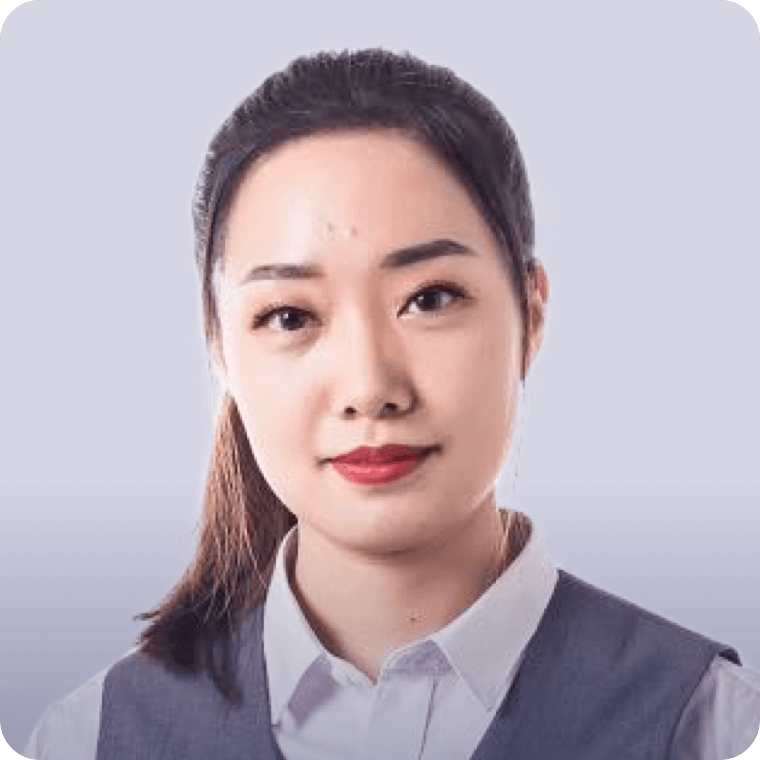
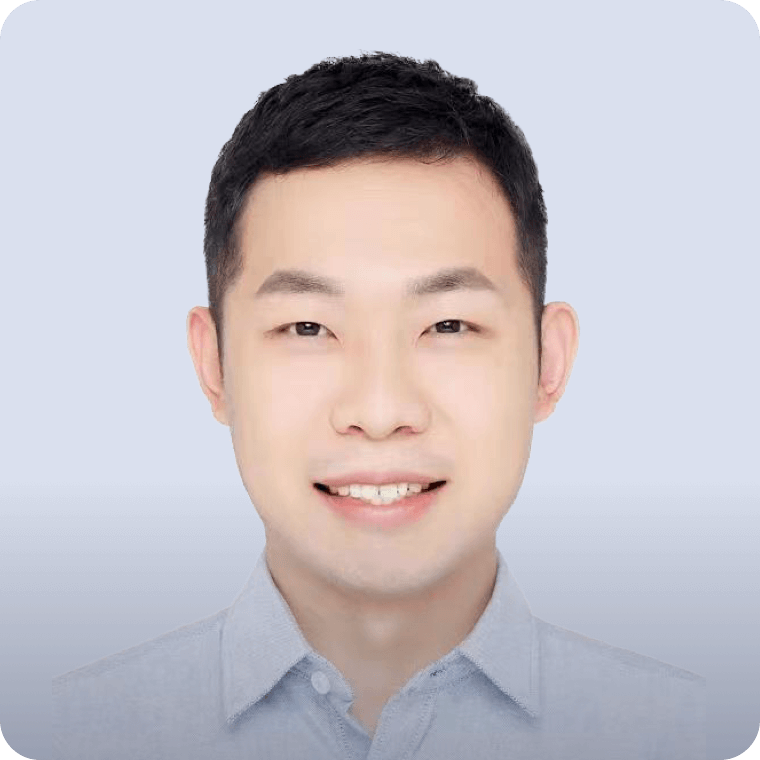
fix(page): 改版

diff --git a/src/store/modules/team.js b/src/store/modules/team.js
@@ -6,70 +6,54 @@ export const useTeamStore = defineStore({
     return {
       teamData: [
         {
+          pic: 'team_1',
           name: 'Ming Lei',
           position: 'Founding Partner',
-          intro: 'Ming Lei intro',
+          intro: '简介',
           mobileIntro: [
             'Mr. Ming Lei is one of Baidu seven Co-Founders. He was in charge of Baidu Search Engine Research and Development, made Baidu the best Chinese search engine in the world.',
-            'Ming founded Kuwo in year 2005. As CEO and Chairman, Ming led Kuwo to be one of top 3 music platforms in China, with more than 200MM active users. After merging with Kugou and QQ Music. (the other 2 of top 3), Kuwo is part of TME Group, which listed in NYSE in 2018.',
-            'Ming is active in AI related research and investment. He is the director of AI Innovation Center in Peking University. At same time, he is the founding partner of AIBasis, which has invested more than ten AI related start-ups, including the New AI Era, No.1 AI media in China; Deep Wise, a top medial imaging AI company in China.',
-            'Ming got MS degree with honor in year 2000 from Peking University, and MBA degree in year 2005 from Stanford Business School. He serves as Director of Stanford Business School Management Board, and Director of Peking University Alumni Association.'
+            'Ming founded Kuwo in year 2005. As CEO and Chairman, Ming led Kuwo to be one of top 3 music platforms in China, which listed in NYSE in 2018.',
+            'Ming is active in AI related research and investment. He is the director of AI Innovation Center in Peking University. At same time, he has invested more than 30 AI related start-ups.',
+            'Ming got MBA degree in year 2005 from Stanford Business School. He serves as Director of Peking University Alumni Association, and Vic President of Stanford Club of Beijing.'
           ]
         },
         {
+          pic: 'team_2',
           name: 'Di Li',
           position: 'Founding Partner',
-          intro: 'Di Li intro',
+          intro: '',
           mobileIntro: [
-            'Mr. Ming Lei is one of Baidu seven Co-Founders. He was in charge of Baidu Search Engine Research and Development, made Baidu the best Chinese search engine in the world.',
-            'Ming founded Kuwo in year 2005. As CEO and Chairman, Ming led Kuwo to be one of top 3 music platforms in China, with more than 200MM active users. After merging with Kugou and QQ Music. (the other 2 of top 3), Kuwo is part of TME Group, which listed in NYSE in 2018.',
-            'Ming is active in AI related research and investment. He is the director of AI Innovation Center in Peking University. At same time, he is the founding partner of AIBasis, which has invested more than ten AI related start-ups, including the New AI Era, No.1 AI media in China; Deep Wise, a top medial imaging AI company in China.',
-            'Ming got MS degree with honor in year 2000 from Peking University, and MBA degree in year 2005 from Stanford Business School. He serves as Director of Stanford Business School Management Board, and Director of Peking University Alumni Association.'
+            'Di is the founding partner of AIbasis, with years of experience in investing in cutting-edge technology. He serves as a special advisor at the Artificial Intelligence Innovation Centre（AIIC） of the Peking University  and teaches courses on Demand Analysis, Product Design, and Mental Models. ',
+            'In 2003, Di earned a Bachelor degree from Peking University, and he has since been a seasoned serial entrepreneur in the internet and mobile industries, with nearly 20 years of experience in product design. He was the lead product manager of Kuwo Music, one of the leading music streaming service in China with 200 million monthly active users, and one that merged with Tencent Music Group which got listed on NASDAQ in 2018.',
           ]
         },
         {
-          name: 'Jena Zhang',
-          position: 'Investment Director',
-          intro: 'Jena Zhang intro',
-          mobileIntro: [
-            'Mr. Ming Lei is one of Baidu seven Co-Founders. He was in charge of Baidu Search Engine Research and Development, made Baidu the best Chinese search engine in the world.',
-            'Ming founded Kuwo in year 2005. As CEO and Chairman, Ming led Kuwo to be one of top 3 music platforms in China, with more than 200MM active users. After merging with Kugou and QQ Music. (the other 2 of top 3), Kuwo is part of TME Group, which listed in NYSE in 2018.',
-            'Ming is active in AI related research and investment. He is the director of AI Innovation Center in Peking University. At same time, he is the founding partner of AIBasis, which has invested more than ten AI related start-ups, including the New AI Era, No.1 AI media in China; Deep Wise, a top medial imaging AI company in China.',
-            'Ming got MS degree with honor in year 2000 from Peking University, and MBA degree in year 2005 from Stanford Business School. He serves as Director of Stanford Business School Management Board, and Director of Peking University Alumni Association.'
-          ]
-        },
-        {
-          name: 'Le Zhan',
-          position: 'Director of Operatio',
-          intro: 'Le Zhan intro',
-          mobileIntro: [
-            'Mr. Ming Lei is one of Baidu seven Co-Founders. He was in charge of Baidu Search Engine Research and Development, made Baidu the best Chinese search engine in the world.',
-            'Ming founded Kuwo in year 2005. As CEO and Chairman, Ming led Kuwo to be one of top 3 music platforms in China, with more than 200MM active users. After merging with Kugou and QQ Music. (the other 2 of top 3), Kuwo is part of TME Group, which listed in NYSE in 2018.',
-            'Ming is active in AI related research and investment. He is the director of AI Innovation Center in Peking University. At same time, he is the founding partner of AIBasis, which has invested more than ten AI related start-ups, including the New AI Era, No.1 AI media in China; Deep Wise, a top medial imaging AI company in China.',
-            'Ming got MS degree with honor in year 2000 from Peking University, and MBA degree in year 2005 from Stanford Business School. He serves as Director of Stanford Business School Management Board, and Director of Peking University Alumni Association.'
-          ]
-        },
-        {
+          pic: 'team_3',
           name: 'XIN DU',
           position: 'Chief Financial Officer',
-          intro: 'XIN DU intro',
-          mobileIntro: [
-            'Mr. Ming Lei is one of Baidu seven Co-Founders. He was in charge of Baidu Search Engine Research and Development, made Baidu the best Chinese search engine in the world.',
-            'Ming founded Kuwo in year 2005. As CEO and Chairman, Ming led Kuwo to be one of top 3 music platforms in China, with more than 200MM active users. After merging with Kugou and QQ Music. (the other 2 of top 3), Kuwo is part of TME Group, which listed in NYSE in 2018.',
-            'Ming is active in AI related research and investment. He is the director of AI Innovation Center in Peking University. At same time, he is the founding partner of AIBasis, which has invested more than ten AI related start-ups, including the New AI Era, No.1 AI media in China; Deep Wise, a top medial imaging AI company in China.',
-            'Ming got MS degree with honor in year 2000 from Peking University, and MBA degree in year 2005 from Stanford Business School. He serves as Director of Stanford Business School Management Board, and Director of Peking University Alumni Association.'
-          ]
+          intro: '',
+          mobileIntro: []
         },
         {
+          pic: 'team_4',
+          name: 'Jena Zhang',
+          position: 'Investment Director',
+          intro: '',
+          mobileIntro: []
+        },
+        {
+          pic: 'team_5',
+          name: 'Le Zhan',
+          position: 'Operation Director',
+          intro: '',
+          mobileIntro: []
+        },
+        {
+          pic: 'team_6',
           name: 'Sherry Zhai',
           position: 'Global Investment Research Analyst',
-          intro: 'Sherry Zhai intro',
-          mobileIntro: [
-            'Mr. Ming Lei is one of Baidu seven Co-Founders. He was in charge of Baidu Search Engine Research and Development, made Baidu the best Chinese search engine in the world.',
-            'Ming founded Kuwo in year 2005. As CEO and Chairman, Ming led Kuwo to be one of top 3 music platforms in China, with more than 200MM active users. After merging with Kugou and QQ Music. (the other 2 of top 3), Kuwo is part of TME Group, which listed in NYSE in 2018.',
-            'Ming is active in AI related research and investment. He is the director of AI Innovation Center in Peking University. At same time, he is the founding partner of AIBasis, which has invested more than ten AI related start-ups, including the New AI Era, No.1 AI media in China; Deep Wise, a top medial imaging AI company in China.',
-            'Ming got MS degree with honor in year 2000 from Peking University, and MBA degree in year 2005 from Stanford Business School. He serves as Director of Stanford Business School Management Board, and Director of Peking University Alumni Association.'
-          ]
+          intro: '',
+          mobileIntro: []
         },
       ],
     }

diff --git a/src/App.vue b/src/App.vue
@@ -50,7 +50,7 @@ const scrollHandle = ({ target }) => {
 }
 
 const personClick = (index) => {
-  if (!isMobile) return;
+  if (!isMobile || teamStore.teamData[index].mobileIntro.length == 0) return;
   showDialog.value = true;
   personIndex = index;
 }
@@ -121,14 +121,14 @@ onUnmounted(() => {
       </div>
       <div class="persons">
         <div v-for="(item, index) in teamStore.teamData" :key="index" class="person" @click="personClick(index)">
-          <img :src="getImageUrl(`team_${index + 1}`)" />
+          <img :src="getImageUrl(item.pic)" />
           <div class="info">
             <span class="name">{{ item.name }}</span>
             <span class="position">{{ item.position }}</span>
           </div>
           <div class="intro" v-if="!isMobile">
             <span class="name">{{ item.name }}</span>
-            <span class="con">{{ item.intro }}</span>
+            <span class="con">{{ item.position }}</span>
           </div>
         </div>
       </div>
@@ -380,7 +380,7 @@ $mainContentPaddingMobile: 0 100px;
 
           &:hover {
             .intro {
-              opacity: 1;
+              opacity: 0;
             }
           }
         }
